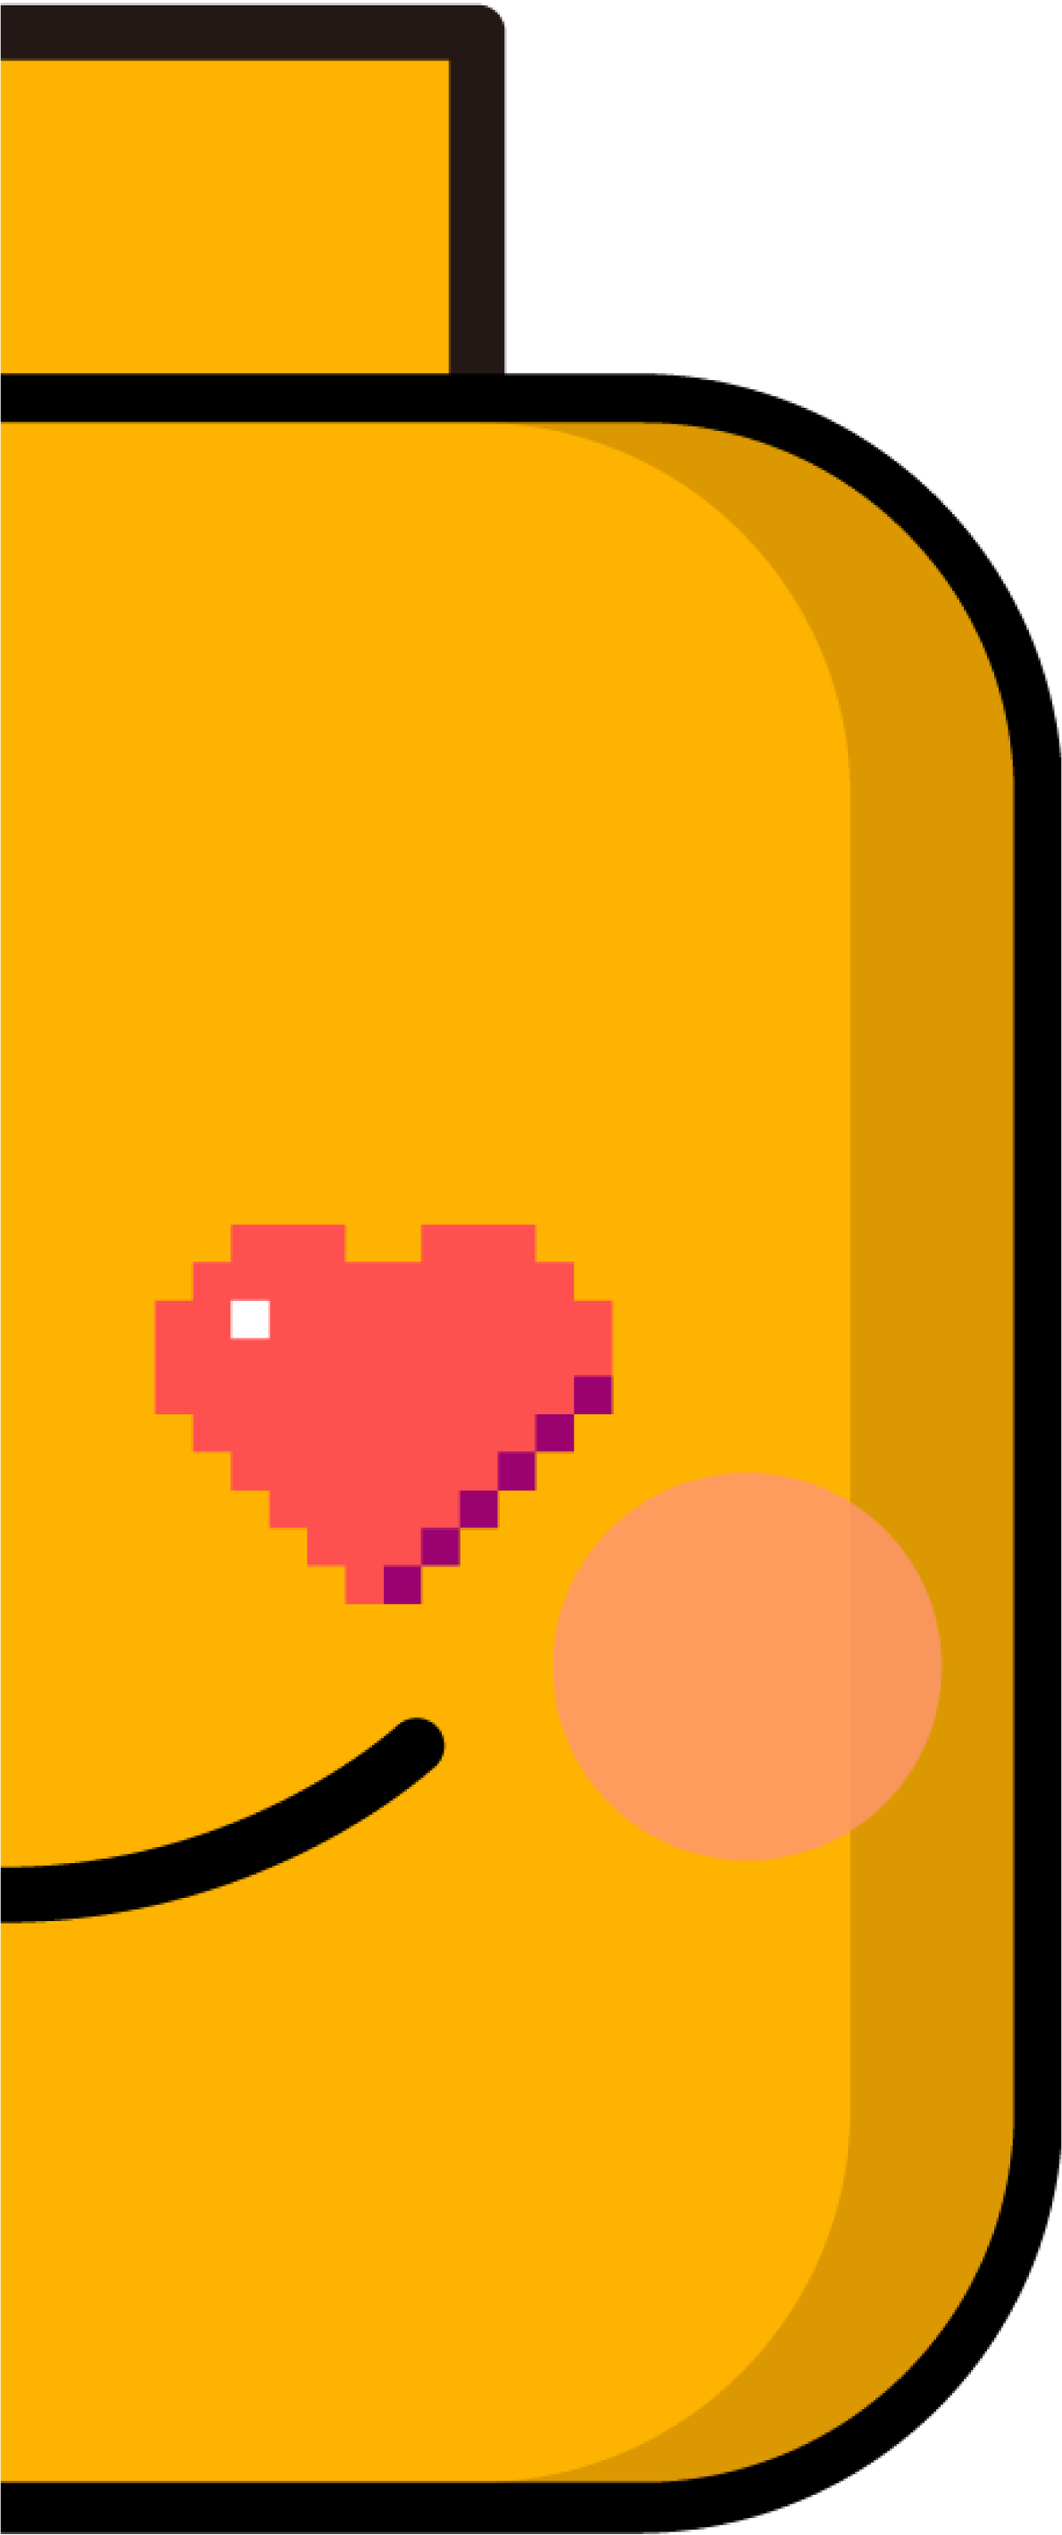
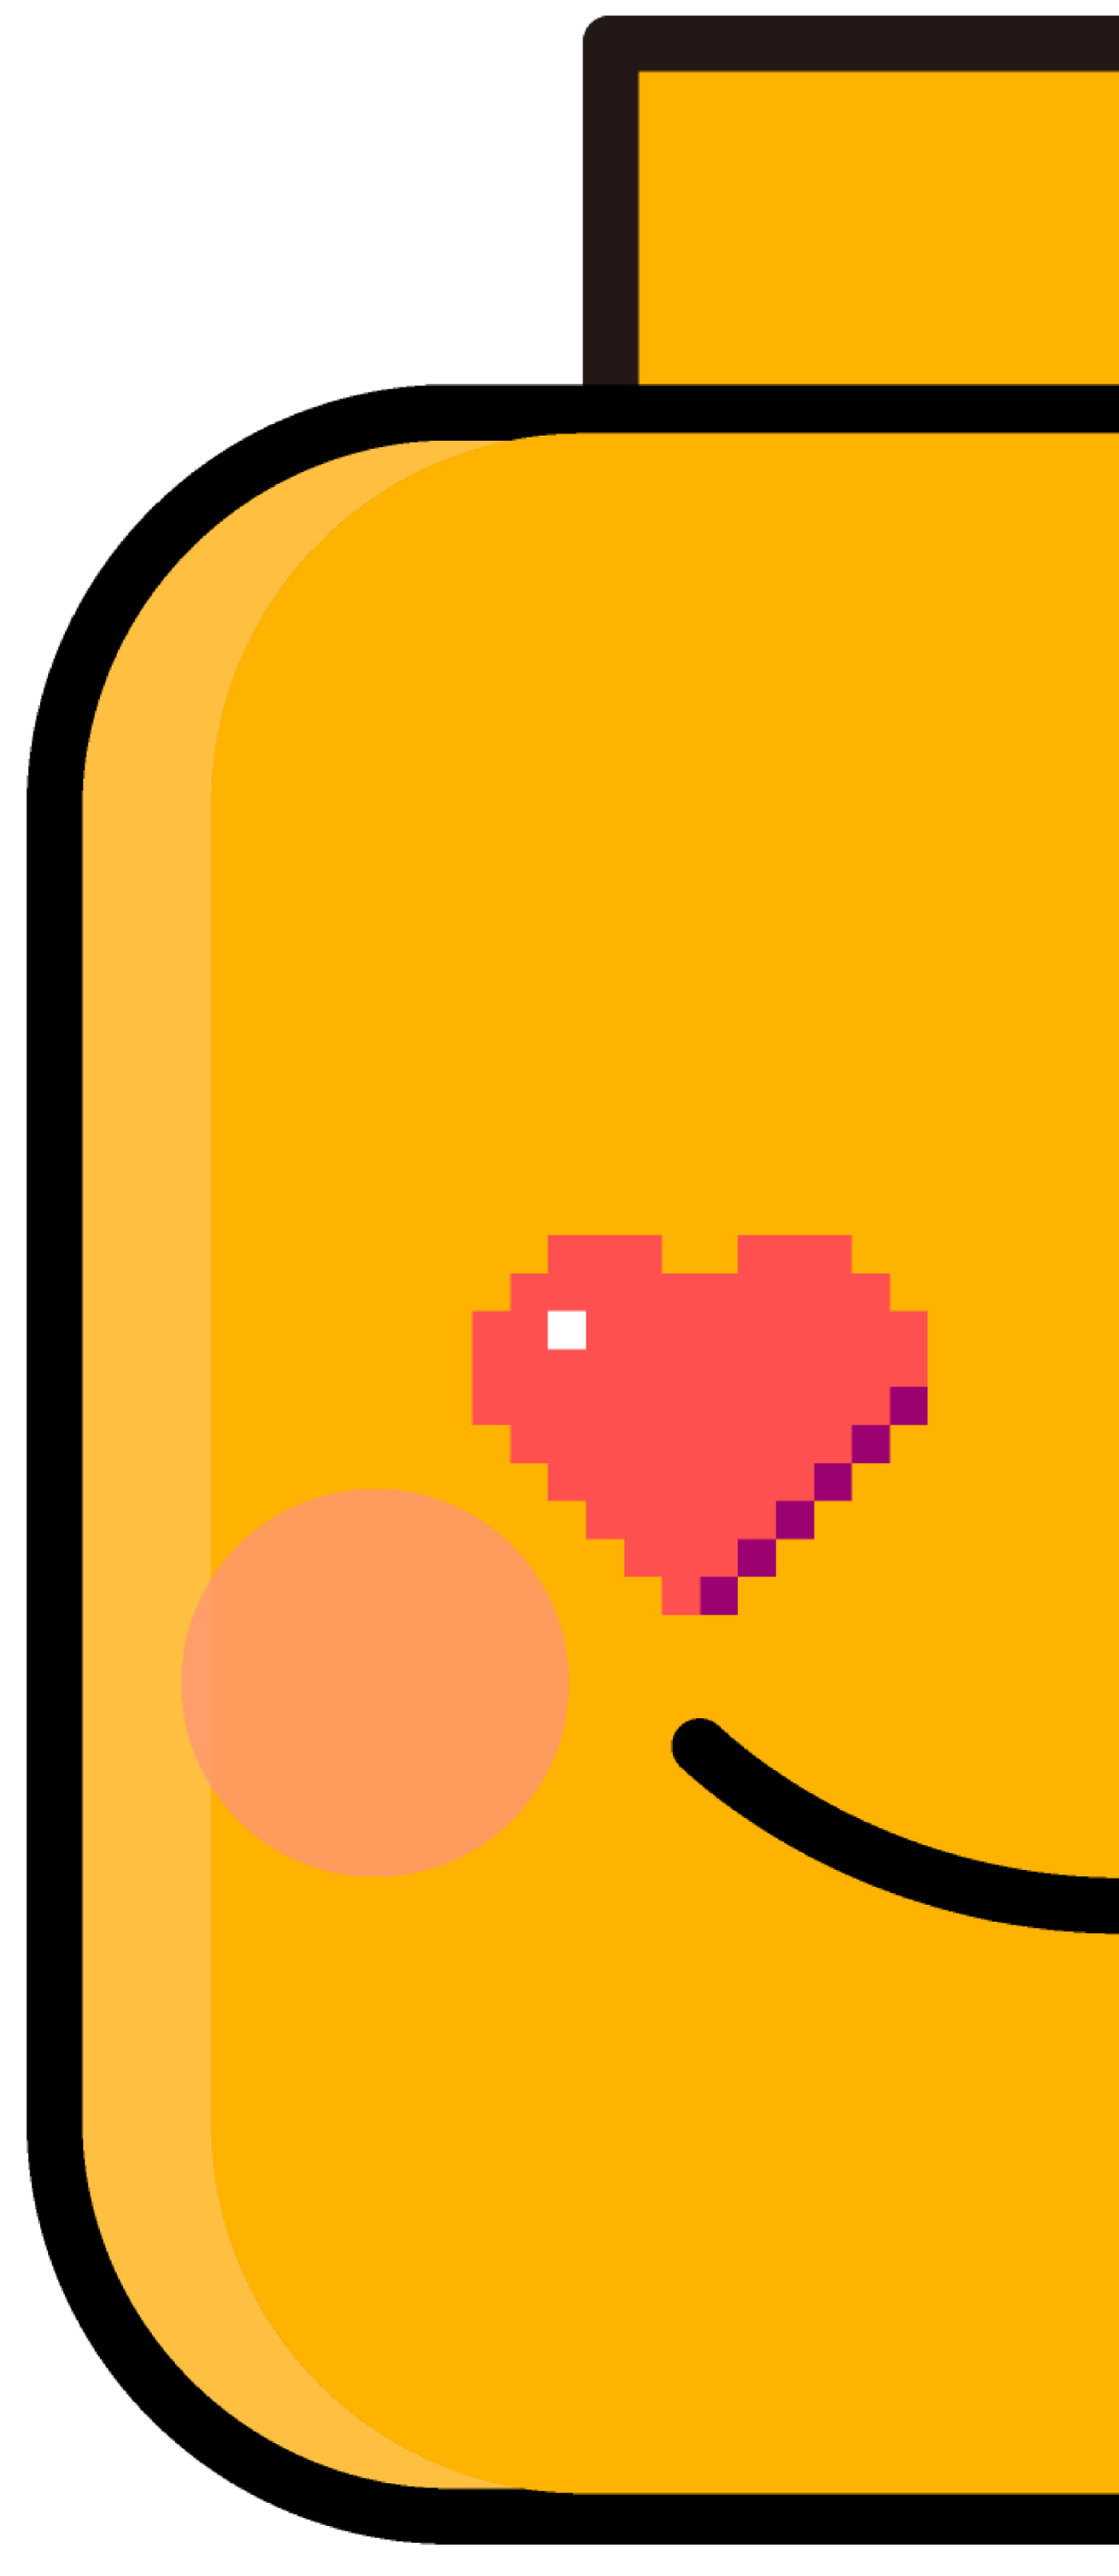
Rename: 이미지 의미에 맞게 이름변경

diff --git a/doranteacher-frontend/src/pages/Book.js b/doranteacher-frontend/src/pages/Book.js
@@ -8,8 +8,33 @@ import LeftDoran from "../components/LeftDoran";
 import ProgressBar from "../components/ProgressBar";
 import ImageUpload from "../components/ImageUpload";
 
+const MainBlock = styled.div``;
+
+const BigDoran = styled.div`
+    .bigDoran {
+        height: 690px;
+    }
+`;
+
 function Book() {
-    return <>book</>;
+    return (
+        <>
+            <GlobalStyle backColor="yellow" />
+            <Header isUndo backColor="yellow" />
+            <MainBlock>
+                <div className="leftSide">
+                    <BigDoran>
+                        <img
+                            className="bigDoran"
+                            src="/img/big-doran-heart-right.png"
+                        />
+                    </BigDoran>
+                </div>
+                <div className="middleSide"></div>
+                <div className="rightSide"></div>
+            </MainBlock>
+        </>
+    );
 }
 
 export default Book;

diff --git a/doranteacher-frontend/src/pages/DiaryList.js b/doranteacher-frontend/src/pages/DiaryList.js
@@ -10,12 +10,29 @@ import ImageUpload from "../components/ImageUpload";
 
 const MainBlock = styled.div``;
 
+const BigDoran = styled.div`
+    .bigDoran {
+        height: 700px;
+    }
+`;
+
 function DiaryList() {
     return (
         <>
             <GlobalStyle backColor="yellow" />
             <Header isUndo backColor="yellow" />
-            <MainBlock></MainBlock>
+            <MainBlock>
+                <div className="leftSide"></div>
+                <div className="middleSide"></div>
+                <div className="rightSide">
+                    <BigDoran>
+                        <img
+                            className="bigDoran"
+                            src="/img/big-doran-heart-left.png"
+                        />
+                    </BigDoran>
+                </div>
+            </MainBlock>
         </>
     );
 }

diff --git a/doranteacher-frontend/src/pages/Loginpage.js b/doranteacher-frontend/src/pages/Loginpage.js
@@ -185,7 +185,7 @@ const Loginpage = (props) => {
                     <BigDoran>
                         <img
                             className="bigDoran"
-                            src="/img/big-doran-heart-right.png"
+                            src="/img/big-doran-heart-left.png"
                         />
                     </BigDoran>
                 </div>
